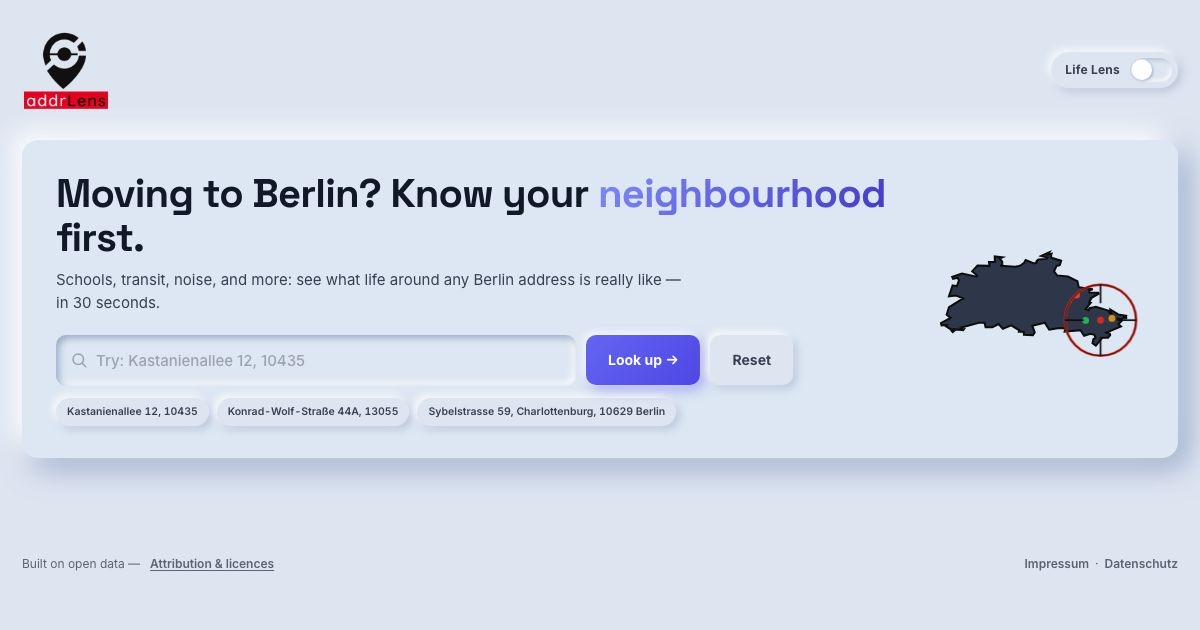
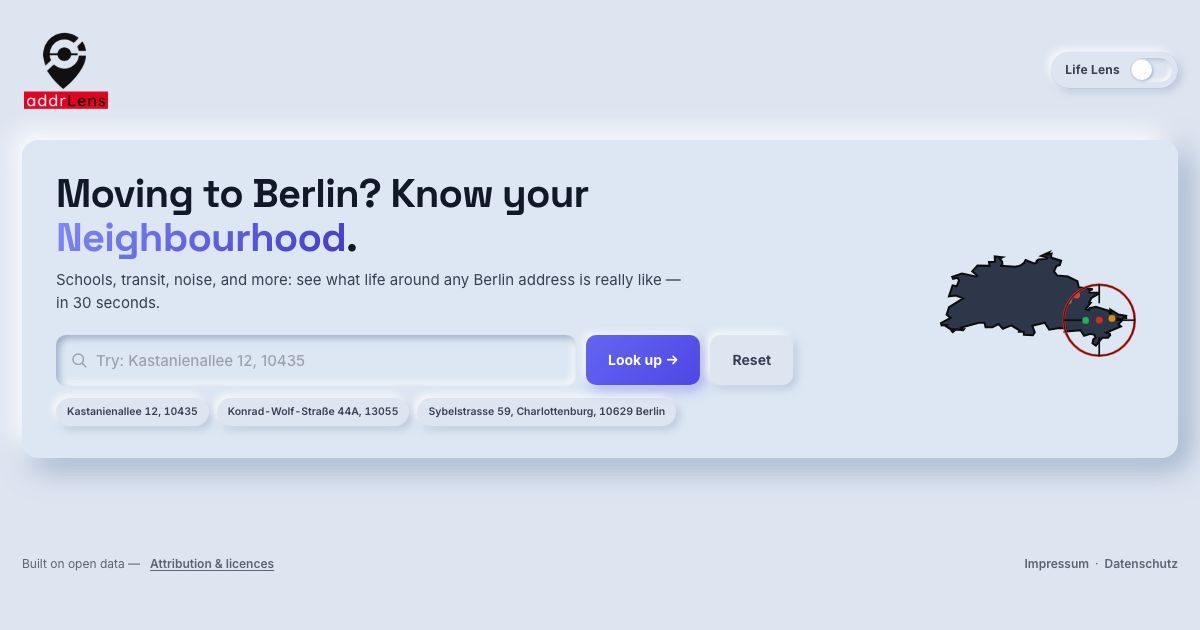
feat(web): tighten hero H1 to 6 words — "Moving to Berlin? Know your Neighbourhood." (#60)
Drops the trailing " first" (softener that prompted a "first of
what?" mental pause) and re-capitalises Neighbourhood for visual
weight parity with the question mark that ends line 1. Net: same
intent, cleaner scan, six words even.

Old H1: Moving to Berlin? Know your neighbourhood first.  (48 chars)
New H1: Moving to Berlin? Know your Neighbourhood.        (42 chars)

Sub / gradient / layout / styling all unchanged per spec:
- Gradient <span class="grad"> still wraps the emotive value noun
  (Neighbourhood).
- Sub-headline unchanged.
- CSS untouched.

Ten sites updated atomically so search-result snippet, social-embed
card, LLM-answer-engine surfacing all tell one story:

- <title>        59 → 53 chars (well under Google's 60 cap)
- <meta description>   155 → 149 chars (under Google's 155 cap)
- <meta og:title / og:description / twitter:title / twitter:description>
- <meta og:image:alt / twitter:image:alt>  (both contained the old
  H1 verbatim in their alt-text descriptions)
- JSON-LD WebApplication.description (schema.org structured data)
- <h1> visible

Also regenerated v0.1/web/static/img/og-image.jpg from live localhost
so the 1200×630 hero card that ships to LinkedIn / Slack / Reddit /
WhatsApp / X previews shows the new H1, not the previous version.
Same JPEG q85 pipeline as PR #58; file size 81 922 bytes (was
82 523).

Verified locally:
- HTML served returns all 10 sites updated (`grep` sweep clean).
- Hero renders at 1200 px with gradient on "Neighbourhood",
[…]

diff --git a/v0.1/web/index.html b/v0.1/web/index.html
@@ -11,27 +11,27 @@
 <meta http-equiv="Cache-Control" content="no-cache, no-store, must-revalidate">
 <meta http-equiv="Pragma" content="no-cache">
 <meta http-equiv="Expires" content="0">
-<title id="page-title">Moving to Berlin? Know your neighbourhood first. · AddrLens</title>
-<meta name="description" content="Moving to Berlin? Know your neighbourhood first. Schools, transit, noise, and more: see what life around any Berlin address is really like — in 30 seconds.">
+<title id="page-title">Moving to Berlin? Know your Neighbourhood. · AddrLens</title>
+<meta name="description" content="Moving to Berlin? Know your Neighbourhood. Schools, transit, noise, and more: see what life around any Berlin address is really like — in 30 seconds.">
 <!-- Open Graph / Twitter card for social embeds (Reddit, WhatsApp, Slack, Twitter). -->
 <meta property="og:type" content="website">
 <meta property="og:url" content="https://addrlens.de/">
-<meta property="og:title" content="Moving to Berlin? Know your neighbourhood first. · AddrLens">
-<meta property="og:description" content="Moving to Berlin? Know your neighbourhood first. Schools, transit, noise, and more: see what life around any Berlin address is really like — in 30 seconds.">
+<meta property="og:title" content="Moving to Berlin? Know your Neighbourhood. · AddrLens">
+<meta property="og:description" content="Moving to Berlin? Know your Neighbourhood. Schools, transit, noise, and more: see what life around any Berlin address is really like — in 30 seconds.">
 <meta property="og:site_name" content="AddrLens">
 <meta property="og:locale" content="en_GB">
 <meta name="twitter:card" content="summary_large_image">
-<meta name="twitter:title" content="Moving to Berlin? Know your neighbourhood first. · AddrLens">
-<meta name="twitter:description" content="Moving to Berlin? Know your neighbourhood first. Schools, transit, noise, and more: see what life around any Berlin address is really like — in 30 seconds.">
+<meta name="twitter:title" content="Moving to Berlin? Know your Neighbourhood. · AddrLens">
+<meta name="twitter:description" content="Moving to Berlin? Know your Neighbourhood. Schools, transit, noise, and more: see what life around any Berlin address is really like — in 30 seconds.">
 <!-- 1200×630 hero screenshot (regenerated whenever hero copy or layout changes;
      see docs/social-embed-og-image.md for the capture command). -->
 <meta property="og:image" content="https://addrlens.de/static/img/og-image.jpg">
 <meta property="og:image:type" content="image/jpeg">
 <meta property="og:image:width" content="1200">
 <meta property="og:image:height" content="630">
-<meta property="og:image:alt" content="AddrLens hero — Moving to Berlin? Know your neighbourhood first. Search box for any Berlin address, Berlin map on the right.">
+<meta property="og:image:alt" content="AddrLens hero — Moving to Berlin? Know your Neighbourhood. Search box for any Berlin address, Berlin map on the right.">
 <meta name="twitter:image" content="https://addrlens.de/static/img/og-image.jpg">
-<meta name="twitter:image:alt" content="AddrLens hero — Moving to Berlin? Know your neighbourhood first. Search box for any Berlin address, Berlin map on the right.">
+<meta name="twitter:image:alt" content="AddrLens hero — Moving to Berlin? Know your Neighbourhood. Search box for any Berlin address, Berlin map on the right.">
 <!-- Canonical + hreflang: single English landing page on .de TLD. Legal pages
      are DE-only; no English alternate exists for those. -->
 <link rel="canonical" href="https://addrlens.de/">
@@ -54,7 +54,7 @@
   "@type": "WebApplication",
   "name": "AddrLens",
   "url": "https://addrlens.de/",
-  "description": "Moving to Berlin? Know your neighbourhood first. Schools, transit, noise, and more: see what life around any Berlin address is really like — in 30 seconds.",
+  "description": "Moving to Berlin? Know your Neighbourhood. Schools, transit, noise, and more: see what life around any Berlin address is really like — in 30 seconds.",
   "applicationCategory": "LifestyleApplication",
   "operatingSystem": "Web",
   "browserRequirements": "Requires JavaScript. Requires a modern browser.",
@@ -108,7 +108,7 @@
 </header>
 
 <div id="view-main"><section class="hero">
-  <h1>Moving to Berlin? Know your <span class="grad">neighbourhood</span> first.</h1>
+  <h1>Moving to Berlin? Know your <span class="grad">Neighbourhood</span>.</h1>
   <p>Schools, transit, noise, and more: see what life around any Berlin address is really like — in 30 seconds.</p>
   <form id="f" autocomplete="off">
     <div class="field autocomplete-wrap" role="combobox"
